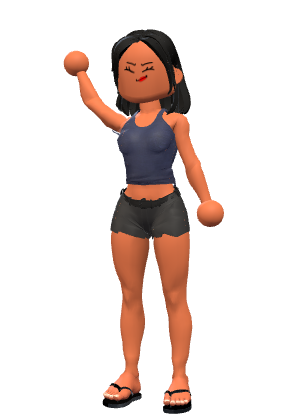
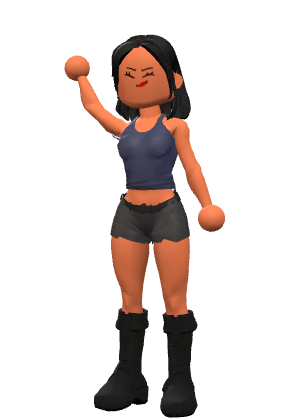
Owners' link (restaurant/) with onboarding tour; scrollbars, card contrast, boots pictures
- restaurant/: one screen for restaurant owners. Name the restaurant and pick what it serves while
  the rewards card and website draw live beside it; one tap makes the card, website and restaurant
  account, then opens the dashboard with example data and a guided tour. ?name=&type=&owner= fill it
  in and build straight away; a returning owner goes straight to the dashboard.
- Dashboard: an 8-stop tour (welcome, what needs you, team, kitchen, paperwork, rewards card,
  website, menu), "Take the tour" in the menu, ?tour=1.
- Custom pill scrollbars site-wide, in games and partner apps, and in the shop website (its colour).
- Rewards page cards use the same card shadow as the dashboard and website sections.
- Avatar pictures re-rendered with the new default boots.

Claude-Session: https://claude.ai/code/session_01QZ64omeFLHpn8ZamwCktyW

diff --git a/restaurant/index.html b/restaurant/index.html
@@ -1,0 +1,167 @@
+<!doctype html>
+<html lang="en" data-theme="light">
+<head>
+<meta charset="utf-8"><script>/* old address → new home */(function(){var p=location.pathname;if(location.hostname==='gabrielman25.github.io'&&p.indexOf('/grugdigital/')===0)location.replace('https://grugdigital.pages.dev/'+p.slice(13)+location.search+location.hash);})();</script>
+<script>/* a returning owner (a restaurant account on this phone, and a plain link) goes straight to the dashboard */
+(function(){try{var q=location.search,b=JSON.parse(localStorage.getItem('grug.business.v1')||'null');
+  if(!/[?&](name|type|c)=/.test(q)&&b&&b.active&&b.shops&&b.shops[b.active]){b.mode='business';localStorage.setItem('grug.business.v1',JSON.stringify(b));location.replace('../business/')}}catch(e){}})();</script>
+<meta name="viewport" content="width=device-width,initial-scale=1,viewport-fit=cover">
+<title>Grug for restaurants</title>
+<meta name="description" content="A rewards card that brings guests back, a website made from it, and a dashboard for your team and kitchen. Free, and ready in one tap.">
+<meta name="theme-color" content="#F3F3F5">
+<link rel="icon" href="../favicon.png">
+<link rel="stylesheet" href="../assets/grug.css">
+<link rel="stylesheet" href="../assets/rewards.css">
+<style>
+/* Grug for restaurants: the link we hand restaurant owners (restaurant/, optionally ?name=…&type=c|t|b|f|k|o&owner=…).
+   One screen: their restaurant's name and what it serves, with their rewards card and website drawing live beside the form.
+   One tap makes all three (card, website, dashboard), then the dashboard opens with example data and a tour. */
+:root{--mode:#FF9F5A;--mode-lo:#E0782F;--page:#F3F3F5}
+html,body{background:var(--page)}
+body{min-height:100vh;min-height:100dvh;display:flex;flex-direction:column}
+.rs{flex:1;display:grid;grid-template-columns:minmax(0,1fr) minmax(0,1fr);grid-template-rows:auto 1fr;column-gap:clamp(24px,5vw,72px);row-gap:clamp(18px,3vw,28px);align-items:center;width:min(1180px,100%);margin:0 auto;padding:clamp(20px,4vw,48px) 20px 40px}
+@media(max-width:900px){.rs{grid-template-columns:1fr;grid-template-rows:none;align-items:start;padding-top:16px;row-gap:14px}}
+.rs-mark{display:inline-flex;align-items:center;gap:10px;font:600 18px/1 var(--font);color:var(--ink);text-decoration:none;grid-column:1/-1;justify-self:start}
+.rs-mark .lg{width:38px;height:38px;border-radius:12px;background:#9BE338;display:grid;place-items:center;box-shadow:0 3px 0 #6FB31C}
+.rs-mark .lg svg{width:26px;height:26px}
+.rs-mark small{font-weight:500;color:var(--ink2)}
+.rs h1{font:600 clamp(32px,4.6vw,54px)/1.04 var(--font);letter-spacing:-.02em;margin:0;max-width:13ch}
+.rs .lede{font-size:clamp(17px,1.6vw,19px);line-height:1.5;color:var(--ink2);margin:14px 0 22px;max-width:34em}
+.rs-form{background:var(--card-solid);border:1px solid var(--line);box-shadow:var(--shadow);border-radius:24px;padding:22px}
+.rs-form label{display:block;font-weight:600;font-size:15px;margin:0 0 8px}
+.rs-name{width:100%;min-height:58px;border-radius:16px;border:2px solid var(--line2);background:#fff;padding:0 16px;font:600 22px/1 var(--font);color:var(--ink)}
+.rs-name:focus{outline:none;border-color:var(--ink)}
+.rs-kinds{display:grid;grid-template-columns:repeat(3,minmax(0,1fr));gap:8px;margin:18px 0 20px}
+.rs-kind{display:flex;align-items:center;gap:10px;min-height:52px;padding:0 12px;border-radius:14px;border:2px solid var(--line);background:#fff;font:600 15px/1.1 var(--font);color:var(--ink);text-align:left}
+.rs-kind .k{width:30px;height:30px;border-radius:9px;display:grid;place-items:center;flex:none;background:var(--k);color:var(--k-ink)}
+.rs-kind .k svg{width:19px;height:19px}
+.rs-kind[aria-checked=true]{border-color:var(--ink);box-shadow:0 3px 0 var(--ink)}
+.rs-kind:focus-visible,.rs-go:focus-visible{outline:3px solid var(--ink);outline-offset:3px}
+@media(max-width:420px){.rs-kinds{grid-template-columns:repeat(2,minmax(0,1fr))}}
+.rs-go{width:100%;min-height:60px;border:0;border-radius:16px;background:var(--mode);color:#1E1B16;font:600 20px/1 var(--font);box-shadow:0 4px 0 var(--mode-lo);display:flex;align-items:center;justify-content:center;gap:10px}
+.rs-go svg{width:24px;height:24px;flex:none}
+.rs-go:active{transform:translateY(3px);box-shadow:0 1px 0 var(--mode-lo)}
+.rs-go[disabled]{opacity:.45;box-shadow:none}
+.rs-fine{font-size:14px;color:var(--ink2);margin:12px 2px 0}
+/* the stage: their card and their website, drawn as they type */
+.rs-stage{position:relative;min-height:560px;grid-column:2;grid-row:2}
+.rs-copy{grid-column:1;grid-row:2}
+@media(max-width:900px){.rs-stage,.rs-copy{grid-column:auto;grid-row:auto}}
+.rs-phone{position:absolute;right:0;top:0;width:300px;height:560px;border-radius:38px;background:#1E1B16;padding:10px;box-shadow:0 30px 60px -30px rgba(20,20,40,.45)}
+.rs-phone .scr{width:100%;height:100%;border-radius:29px;overflow:hidden;background:#fff;position:relative}
+.rs-phone iframe{position:absolute;left:0;top:0;width:400px;height:720px;border:0;transform:scale(.7);transform-origin:0 0;pointer-events:none}
+.rs-card{position:absolute;left:0;bottom:30px;width:min(330px,62%);transform:rotate(-4deg);filter:drop-shadow(0 18px 26px rgba(20,20,40,.22))}
+.rs-card .rw-pass{width:100%}
+.rs-tag{position:absolute;z-index:2;display:inline-flex;align-items:center;gap:7px;font:600 14px/1 var(--font);color:var(--ink);background:#fff;border-radius:99px;padding:8px 12px 8px 9px;box-shadow:var(--shadow)}
+.rs-tag i{width:20px;height:20px;border-radius:7px;display:grid;place-items:center;background:var(--t)}.rs-tag i svg{width:13px;height:13px}
+.rs-tag.c{left:8px;bottom:6px}.rs-tag.w{right:18px;top:-14px}
+@media(max-width:900px){.rs-stage{min-height:0}.rs-phone,.rs-tag.w{display:none}.rs-card{position:relative;left:auto;bottom:auto;width:min(290px,80%);margin:0 auto 6px;transform:rotate(-2deg)}.rs-tag.c{display:none}}
+/* the build: three rows tick over, then the dashboard opens */
+.rs-build{list-style:none;margin:0;padding:0;display:grid;gap:10px}
+.rs-build li{display:flex;align-items:center;gap:14px;padding:14px 16px;border-radius:18px;background:var(--card-solid);border:1px solid var(--line);box-shadow:var(--shadow);opacity:.45;transition:opacity .3s}
+.rs-build li.on,.rs-build li.ok{opacity:1}
+.rs-build .ic{width:46px;height:46px;border-radius:14px;display:grid;place-items:center;background:var(--t);box-shadow:0 3px 0 var(--tl);color:#1E1B16;flex:none}
+.rs-build .ic svg{width:26px;height:26px}
+.rs-build b{display:block;font-size:18px}.rs-build small{display:block;color:var(--ink2);font-size:14.5px;margin-top:2px}
+.rs-build .st{margin-left:auto;width:28px;height:28px;flex:none;display:grid;place-items:center}
+.rs-build li.on .st::before{content:"";width:20px;height:20px;border-radius:50%;border:3px solid var(--line2);border-top-color:var(--ink);animation:rs-spin .7s linear infinite}
+.rs-build li.ok .st{background:#1E1B16;color:#fff;border-radius:50%}.rs-build li.ok .st svg{width:16px;height:16px}
+@keyframes rs-spin{to{transform:rotate(360deg)}}
+.rs-open{margin-top:18px}
+@media(prefers-reduced-motion:reduce){.rs-build li.on .st::before{animation:none}}
+</style>
+</head>
+<body>
+<main class="rs" id="rs">
+  <a class="rs-mark" id="mark" href="../"><span class="lg" id="lg"></span>Grug <small>for restaurants</small></a>
+  <aside class="rs-stage" aria-hidden="true">
+    <span class="rs-tag w"><i style="--t:#5AB0FF" id="tagW"></i>Your website</span>
+    <div class="rs-phone"><div class="scr"><iframe id="pv" title="" tabindex="-1" sandbox="allow-same-origin"></iframe></div></div>
+    <div class="rs-card" id="card"></div>
+    <span class="rs-tag c"><i style="--t:#FF9F5A" id="tagC"></i>Your rewards card</span>
+  </aside>
+  <section class="rs-copy" id="copy" aria-live="polite"></section>
+</main>
+<script src="../assets/catalog.js"></script>
+<script src="../assets/icons.js"></script>
+<script src="../assets/games.js"></script>
+<script src="../assets/grug.js"></script>
+<script src="../assets/rewards.js"></script>
+<script src="../assets/business.js"></script>
+<script>
+(function () {
+  const G = Grug, RW = GrugRewards, B = GrugBusiness, esc = G.esc, $ = s => document.querySelector(s);
+  const q = new URLSearchParams(location.search);
+  const KIND_ORDER = ['f', 'c', 't', 'b', 'k', 'o'];
+  const state = { n: (q.get('name') || '').trim().slice(0, 28), t: RW.KINDS[q.get('type')] ? q.get('type') : '', owner: (q.get('owner') || '').trim().slice(0, 40) };
+  // a full card in the link (?c=…) sets everything, as the card builder made it
+  const fromLink = q.get('c') && RW.decode(q.get('c'));
+  if (fromLink) { state.n = fromLink.n; state.t = fromLink.t; }
+  const cfg = () => fromLink || RW.normalize({ n: state.n || 'Your restaurant', t: state.t || 'f', j: 1 });
+  const svg = (k, d) => '<svg viewBox="0 0 16 16" fill="currentColor" aria-hidden="true">' + (window.GRUG_ICONS_SIMPLE[k] || '') + '</svg>';
+  $('#lg').innerHTML = G.LOGO;
+  $('#tagW').innerHTML = svg('browser'); $('#tagC').innerHTML = svg('gift');
+
+  /* ---------- the live stage ---------- */
+  const abs = p => new URL(G.url(p), location.href).href;
+  let pvT = 0;
+  function stage() {
+    const c = cfg(), code = RW.encode(c);
+    $('#card').innerHTML = RW.passHtml(c, 2);
+    clearTimeout(pvT); pvT = setTimeout(() => { $('#pv').srcdoc = B.siteHtml(code, B.starterSite(c), { fontsHref: abs('assets/shop-fonts.css'), fredokaUrl: abs('assets/fonts/fredoka.woff2') }); }, 220);
+  }
+
+  /* ---------- the form ---------- */
+  function form() {
+    const n = state.n;
+    $('#copy').innerHTML =
+      '<h1>' + (n ? esc(n) + ', ready in one tap.' : 'Your restaurant, ready in one tap.') + '</h1>' +
+      '<p class="lede">A rewards card that brings guests back, a website made from it, and a dashboard for your team and kitchen. Free, with nothing to install.</p>' +
+      '<form class="rs-form" id="f" novalidate>' +
+        '<label for="nm">Your restaurant’s name</label><input class="rs-name" id="nm" maxlength="28" autocomplete="organization" placeholder="Pebble Boba Bar" value="' + esc(n) + '">' +
+        '<div class="rs-kinds" role="radiogroup" aria-label="What do you serve?">' + KIND_ORDER.map(k => { const K = RW.KINDS[k];
+          return '<button type="button" class="rs-kind" role="radio" data-k="' + k + '" aria-checked="' + (state.t === k) + '" style="--k:' + K.color + ';--k-ink:' + RW.inkOn(K.color) + '"><span class="k">' + RW.iconSvg(K.i) + '</span>' + esc(K.label) + '</button>'; }).join('') + '</div>' +
+        '<button class="rs-go" id="go">' + svg('magic-wand') + '<span id="goTx"></span></button>' +
+        '<p class="rs-fine">Saved on this phone. No sign-up, no app to download.</p></form>';
+    const nm = $('#nm'), go = $('#go');
+    const sync = () => { $('#goTx').textContent = state.n ? 'Set up ' + state.n : 'Set up my restaurant'; go.disabled = !state.n.trim() || !state.t; };
+    nm.addEventListener('input', () => { state.n = nm.value.replace(/\s+/g, ' ').slice(0, 28); sync(); stage(); });
+    $('#f').addEventListener('click', e => { const b = e.target.closest('.rs-kind'); if (!b) return; state.t = b.dataset.k; G.ui.buzz && G.ui.buzz();
+      document.querySelectorAll('.rs-kind').forEach(x => x.setAttribute('aria-checked', String(x === b))); sync(); stage(); });
+    $('#f').addEventListener('submit', e => { e.preventDefault(); if (!state.n.trim()) { nm.focus(); return; } if (!state.t) { document.querySelector('.rs-kind').focus(); return; } build(); });
+    sync(); stage();
+    if (!n) nm.focus({ preventScroll: true }); else if (!state.t) document.querySelector('.rs-kind').focus({ preventScroll: true });
+  }
+
+  /* ---------- the build: card → website → dashboard, then the dashboard opens (with example data and the tour) ---------- */
+  const wait = ms => new Promise(ok => setTimeout(ok, matchMedia('(prefers-reduced-motion: reduce)').matches ? 0 : ms));
+  async function build() {
+    const c = cfg(), code = RW.encode(c), name = c.n;
+    const ROWS = [
+      ['gift', '#FF9F5A', '#E0782F', 'Rewards card', 'Making your rewards card', 'Ready to print and put by the register'],
+      ['browser', '#5AB0FF', '#2F86D6', 'Website', 'Building your website from it', 'Live, with a link you can share'],
+      ['dashboard', '#9BE338', '#6FB31C', 'Dashboard', 'Setting up your dashboard', 'Team, kitchen and paperwork in one place']];
+    $('#copy').innerHTML = '<h1>Setting up ' + esc(name) + '</h1><p class="lede">This takes a few seconds.</p><ol class="rs-build">' +
+      ROWS.map(r => '<li style="--t:' + r[1] + ';--tl:' + r[2] + '"><span class="ic">' + svg(r[0]) + '</span><span><b>' + r[3] + '</b><small>' + r[4] + '</small></span><span class="st"></span></li>').join('') + '</ol>';
+    const li = Array.from(document.querySelectorAll('.rs-build li'));
+    const tick = (i, done) => { const r = ROWS[i], el = li[i]; el.classList.toggle('on', !done); el.classList.toggle('ok', !!done); el.querySelector('small').textContent = done ? r[5] : r[4]; if (done) el.querySelector('.st').innerHTML = svg('check'); };
+    // the actual work: who's visiting, the card (in My creations), the restaurant account and its website, then which account is in use
+    try { G.setRole && G.setRole('owner'); } catch (e) {}
+    tick(0); await wait(700); RW.saveMine(code); tick(0, true);
+    tick(1); await wait(700); B.fromCard(code); tick(1, true);
+    tick(2); await wait(700); B.setMode('business');
+    try { sessionStorage.setItem('grug.onboard', JSON.stringify({ owner: state.owner })); } catch (e) {}
+    tick(2, true);
+    $('#copy').insertAdjacentHTML('beforeend', '<button class="rs-go rs-open" id="open">' + svg('dashboard') + 'Open my dashboard</button>');
+    $('#open').addEventListener('click', openDash); $('#open').focus({ preventScroll: true });
+    await wait(900); openDash();
+  }
+  let leaving = false;
+  function openDash() { if (leaving) return; leaving = true; location.href = G.url('business/') + '?start=1'; }
+
+  // a link with the name and what they serve sets up straight away; otherwise the form
+  if (fromLink || (state.n && state.t)) { stage(); build(); } else form();
+})();
+</script>
+</body>
+</html>

diff --git a/business/index.html b/business/index.html
@@ -34,6 +34,17 @@ html.gd-docked .setupwrap .skip{bottom:calc(100px + env(safe-area-inset-bottom,0
   .gdock a{flex:none;width:62px;height:52px}.gdock a span{display:none}.gdock a[aria-current=page]{transform:translateX(3px)}
   html.gd-docked .page{padding-bottom:0;padding-left:calc(90px + env(safe-area-inset-left,0px))}
   html.gd-docked #toast,html.gd-docked .setupwrap .skip{bottom:1.4rem}}
+/* the first-run tour (restaurant/ opens the dashboard with ?start=1; "Take the tour" in the menu replays it): the page dims
+   around one thing at a time, with a card beside it that says what it's for */
+.tour-catch{position:fixed;inset:0;z-index:80}
+.tour-hole{position:fixed;z-index:81;border-radius:.9rem;box-shadow:0 0 0 200vmax rgba(30,27,22,.58);pointer-events:none;transition:left .3s var(--ease),top .3s var(--ease),width .3s var(--ease),height .3s var(--ease)}
+.tour-tip{position:fixed;z-index:82;width:min(23rem,calc(100vw - 1.5rem));background:var(--panel);color:var(--ink);border-radius:.9rem;padding:1.15rem 1.2rem 1rem;box-shadow:var(--sh-pop);
+  transition:left .3s var(--ease),top .3s var(--ease);animation:rise .3s var(--ease) both}
+.tour-tip .n{display:block;font-size:.82rem;font-weight:600;color:var(--muted);margin-bottom:.35rem}
+.tour-tip h2{font-size:1.35rem;line-height:1.15;margin:0 0 .4rem;letter-spacing:0;text-transform:none}
+.tour-tip p{margin:0 0 1rem;font-size:1rem;line-height:1.5;color:var(--text-2)}
+.tour-tip .row{display:flex;align-items:center;gap:.5rem;flex-wrap:wrap}.tour-tip .row .sp{flex:1}
+.tour-tip .dots{display:flex;gap:.3rem;margin-bottom:.9rem}.tour-tip .dots i{width:.45rem;height:.45rem;border-radius:99px;background:var(--line-2)}.tour-tip .dots i.on{width:1.2rem;background:var(--ink)}
 /* a locked time clock is a staff kiosk: no way out to the website or the card */
 html.gd-locked .gdock{display:none}html.gd-locked.gd-docked .page{padding-bottom:0;padding-left:0}
 @media print{.gdock{display:none}}
@@ -1337,6 +1348,7 @@ A.menu=el=>{const pk=el.closest('.me');if(POP&&POP.pk===pk)return closePop();
    <p class="grp">${all.length?all.length===1?'1 thing needs you':all.length+' things need you':'Nothing needs you right now'}</p>
    ${all.map(i=>{const A2=sec(i.page);return`<button type="button" class="opt mi-row" data-act="attn" data-page="${i.page}" data-week="${i.week||''}">${appIcon(A2,'xs')}<span>${esc(i.text)}<small>${lv[i.level][1]?`<span class="tag ${lv[i.level][0]}">${lv[i.level][1]}</span> `:''}${esc(A2.name)}</small></span></button>`}).join('')}
    <div class="mfoot"><button type="button" class="opt" data-act="ext" data-href="site/">${icon('browser')}<span>Your website</span></button><button type="button" class="opt" data-act="ext" data-href="../rewards/">${icon('gift')}<span>Rewards card</span></button>
+   <button type="button" class="opt" data-act="tour">${icon('info')}<span>Take the tour</span></button>
    <button type="button" class="opt" ${goAttr('settings')}>${icon('cog')}<span>Settings</span></button></div>`,'menu')};
 A.ext=el=>{location.href=el.dataset.href};
 A.toPlayer=()=>GRUG.toPlayer();
@@ -1421,6 +1433,54 @@ function gdock(){if(document.querySelector('.gdock')||!GRUG.shop())return;
   document.addEventListener('keydown',e=>{if(POP||e.ctrlKey||e.metaKey||e.altKey||locked()||e.target.closest('input,textarea,select,[contenteditable]'))return;
     const k=e.key.toLowerCase();if(k!=='q'&&k!=='e')return;e.preventDefault();location.href=GDOCK[k==='e'?1:2][2]})}
 A.dockHome=(el,e)=>{e.preventDefault();if(ui.page!=='home'||ui.sub)A.logo()};
+/* ---------- The tour: one stop per part of the restaurant account, in the order an owner meets them ---------- */
+let TOUR_SAMPLE=false,TOUR_OWNER='';
+const tourSteps=()=>{const sh=GRUG.shop(),n=(sh&&sh.n)||D.settings.name||'your restaurant',who=TOUR_OWNER?TOUR_OWNER.split(' ')[0]:'',
+  poss=/s$/i.test(n)?n+'\u2019':n+'\u2019s';return[
+  {t:who?`Welcome, ${who}. This is ${poss} dashboard`:`Welcome to ${poss} dashboard`,b:'Your team, your kitchen, your rewards card and your website, all in one place. Here is a one-minute look around.'},
+  {sel:'.needs,.allgood',t:'What needs you today',b:'Permits about to run out, fridges with no temperature logged, shifts nobody is on. Anything that needs you shows up here first.'},
+  {sel:'details.agrp[data-g=team]',t:'Your team',b:'Plan the week\'s shifts, run a time clock on a tablet by the door, and keep everyone\'s details in one list.'},
+  {sel:'details.agrp[data-g=kitchen]',t:'Kitchen',b:'Opening and closing checklists, fridge and freezer temperatures, and what every dish costs you to make.'},
+  {sel:'details.agrp[data-g=paper]',t:'Paperwork',b:'Health permits and food handler cards, with a reminder before anything runs out. And a backup of everything, in one file.'},
+  {sel:'.gdock a[href="../rewards/"]',t:'Your rewards card',b:'Guests scan it at your counter and collect a stamp every visit, plus Pearls to spend on games. Print its QR code from here.'},
+  {sel:'.gdock a[href="site/"]',t:'Your website',b:'Already made from your rewards card, in its colours and lettering. Add your hours and menu, then share the link.'},
+  {sel:'.top .me',t:'Your menu',b:'Everything that needs you, Settings, and the switch back to your Grug player account.'+(TOUR_SAMPLE?' The apps are filled with example data so you can see how they work. Erase it in Settings when you\'re ready to add your own.':''),last:true}]};
+let TOUR=null;
+function tourEnd(){if(!TOUR)return;TOUR.els.forEach(e=>e.remove());removeEventListener('resize',TOUR.place);removeEventListener('scroll',TOUR.place,true);document.removeEventListener('keydown',TOUR.key,true);TOUR=null;
+  try{localStorage.setItem('grug.biz.tour','done')}catch(e){}}
+function tour(i){
+  if(locked())return;closePop();if(ui.page!=='home'||ui.sub){go('home')}
+  if(!TOUR){const catchEl=document.createElement('div'),hole=document.createElement('div'),tip=document.createElement('div');
+    catchEl.className='tour-catch';hole.className='tour-hole';tip.className='tour-tip';tip.setAttribute('role','dialog');tip.setAttribute('aria-modal','true');tip.setAttribute('aria-labelledby','tourT');
+    document.body.append(catchEl,hole,tip);
+    TOUR={els:[catchEl,hole,tip],hole,tip,i:0,
+      place(){const st=TOUR&&TOUR.steps[TOUR.i];if(!st)return;const el=st.sel&&document.querySelector(st.sel),vw=innerWidth,vh=innerHeight,pad=8;
+        const tw=TOUR.tip.offsetWidth,th=TOUR.tip.offsetHeight;
+        if(!el){Object.assign(TOUR.hole.style,{left:vw/2+'px',top:vh/2+'px',width:'0px',height:'0px'});Object.assign(TOUR.tip.style,{left:(vw-tw)/2+'px',top:Math.max(12,(vh-th)/2)+'px'});return}
+        const r=el.getBoundingClientRect();Object.assign(TOUR.hole.style,{left:r.left-pad+'px',top:r.top-pad+'px',width:r.width+pad*2+'px',height:r.height+pad*2+'px'});
+        const below=r.bottom+pad+14,above=r.top-pad-14-th;let top=below+th<=vh-12?below:above>=12?above:Math.max(12,vh-th-12);
+        const left=Math.max(12,Math.min(vw-tw-12,r.left+r.width/2-tw/2));Object.assign(TOUR.tip.style,{left:left+'px',top:top+'px'})},
+      key(e){if(e.key==='Escape'){e.preventDefault();e.stopPropagation();tourEnd()}else if(e.key==='ArrowRight'){e.preventDefault();tour(TOUR.i+1)}else if(e.key==='ArrowLeft'&&TOUR.i>0){e.preventDefault();tour(TOUR.i-1)}}};
+    TOUR.steps=tourSteps();addEventListener('resize',TOUR.place);addEventListener('scroll',TOUR.place,true);document.addEventListener('keydown',TOUR.key,true);
+    tip.addEventListener('click',e=>{const b=e.target.closest('[data-tour]');if(!b)return;const k=b.dataset.tour;
+      if(k==='next')tour(TOUR.i+1);else if(k==='back')tour(TOUR.i-1);else if(k==='skip'||k==='done')tourEnd();else if(k==='site'){tourEnd();location.href='site/'}})}
+  const steps=TOUR.steps;if(i>=steps.length)return tourEnd();TOUR.i=i=Math.max(0,i);const st=steps[i];
+  TOUR.tip.innerHTML=`<div class="dots" aria-hidden="true">${steps.map((x,k)=>`<i class="${k===i?'on':''}"></i>`).join('')}</div><span class="n">${i+1} of ${steps.length}</span><h2 id="tourT">${esc(st.t)}</h2><p>${esc(st.b)}</p>
+    <div class="row">${st.last?`<button type="button" class="btn pri" data-tour="site">${icon('browser')}Open my website</button><button type="button" class="btn" data-tour="done">Explore the dashboard</button>`
+      :`<button type="button" class="btn pri" data-tour="next">${i?'Next':'Show me around'}</button>${i?'<button type="button" class="btn" data-tour="back">Back</button>':''}<span class="sp"></span><button type="button" class="quiet sm" data-tour="skip">${i?'End tour':'Skip'}</button>`}</div>`;
+  const el=st.sel&&document.querySelector(st.sel);
+  if(el){const r=el.getBoundingClientRect();if(r.top<70||r.bottom>innerHeight-110)el.scrollIntoView({block:'center',behavior:matchMedia('(prefers-reduced-motion: reduce)').matches?'auto':'smooth'})}
+  TOUR.place();setTimeout(()=>TOUR&&TOUR.place(),350);
+  const f=TOUR.tip.querySelector('.btn.pri');if(f)f.focus({preventScroll:true})}
+A.tour=()=>{closePop();tour(0)};
+/* the onboarding link (restaurant/) lands here with ?start=1: a fresh dashboard gets example data in every app (the owner's
+   own name, if the link had one), then the tour starts. ?tour=1 just starts the tour. */
+function onboard(){let q;try{q=new URLSearchParams(location.search)}catch(e){return}if(!q.has('start')&&!q.has('tour'))return;
+  try{history.replaceState(history.state,'',location.pathname)}catch(e){}
+  let o={};try{o=JSON.parse(sessionStorage.getItem('grug.onboard')||'{}')||{};sessionStorage.removeItem('grug.onboard')}catch(e){}
+  if(q.has('start')&&!D.settings.setupDone){loadSample();D.settings.profileName=String(o.owner||'').trim().slice(0,40);TOUR_OWNER=D.settings.profileName;const sh=GRUG.shop();if(sh&&sh.n)D.settings.name=sh.n;
+    D.settings.setupDone=true;touch(D.settings);save();TOUR_SAMPLE=true;ui.anim=true;go('home')}
+  setTimeout(()=>tour(0),450)}
 const attentionAll=()=>C.attention(D,TODAY(),{backupAge:backupAge(),backupDays:meta.backupDays}).concat(bizAttention());
 /* the apps on Home, in groups by what they look after (an app not listed here lands in "More").
    Each group is a drop-down, closed until it's opened; it stays open while the dashboard is open (OPEN_GROUPS). Closed, it
@@ -2099,7 +2159,7 @@ if(window.matchMedia){const mq=matchMedia('(min-width:900px)');const h=()=>{if(D
   ui.week=C.weekStart(TODAY(),D.settings.weekStart);
   GD.init({accent:'#6FB31C',pattern:undefined,cursors:true,tips:true,fx:true,noContextMenu:true,brand:true});GD.setUISize(meta.uiSize||'normal');curBrand='daypart';
   try{history.replaceState({page:'home',sub:null},'')}catch(e){}
-  render();
+  render();onboard();
   if(window.__loadError)toast('Saved data could not be opened: '+window.__loadError);
   if(Store.mode==='memory')toast("This browser isn't letting the app save. Open Fossil to save a backup file.");
   try{if(navigator.storage&&navigator.storage.persist){ui.persisted=await navigator.storage.persisted()||await navigator.storage.persist()}}catch(e){}

diff --git a/assets/cursors.js b/assets/cursors.js
@@ -1,4 +1,4 @@
-/* Grug · the custom cursor, everywhere (cursors.js)
+/* Grug · the custom cursor (and the scrollbar pill), everywhere (cursors.js)
 
    The same outline cursors as the restaurant dashboard (business/, Kenney Cursor Pack, CC0) on every page and game.
    Loaded by theme.js, grug.js and gamekit.js (whichever comes first; it runs once), and by the partner app template.
@@ -63,7 +63,12 @@
     ':where(a[href],area[href],button,summary,select,label,[role=button],[role=link],[role=tab],[role=menuitem],[role=menuitemcheckbox],[role=menuitemradio],[role=option],[role=switch],[role=checkbox],[role=radio],[onclick],' +
       'input:is([type=button],[type=submit],[type=reset],[type=checkbox],[type=radio],[type=color],[type=file],[type=range],[type=image])){cursor:' + VAL.pointer + '}' +
     ':where(input:not([type]),input:is([type=text],[type=email],[type=search],[type=tel],[type=url],[type=password],[type=number],[type=date],[type=time],[type=datetime-local],[type=month],[type=week]),textarea,[contenteditable]:not([contenteditable=false])){cursor:text}' +
-    ':where(:disabled,[aria-disabled=true]){cursor:' + VAL['not-allowed'] + '}';
+    ':where(:disabled,[aria-disabled=true]){cursor:' + VAL['not-allowed'] + '}' +
+    // scrollbars: the site's pill (grug.css has the themed one for site pages; this is for games and partner apps)
+    ':where(*)::-webkit-scrollbar{width:12px;height:12px}:where(*)::-webkit-scrollbar-track,:where(*)::-webkit-scrollbar-corner{background:transparent}' +
+    ':where(*)::-webkit-scrollbar-thumb{background:rgba(128,128,136,.55);border-radius:99px;border:3px solid transparent;background-clip:padding-box;min-height:36px}' +
+    ':where(*)::-webkit-scrollbar-thumb:hover{background-color:rgba(128,128,136,.85);border-width:2px}' +
+    '@supports not selector(::-webkit-scrollbar){:where(*){scrollbar-width:thin;scrollbar-color:rgba(128,128,136,.6) transparent}}';
   function addBase() { const h = doc.head || doc.documentElement; if (!base.isConnected && h) h.insertBefore(base, h.firstChild); }
   addBase(); seen.add(base.sheet);
 

diff --git a/assets/grug.css b/assets/grug.css
@@ -530,12 +530,14 @@ html::-webkit-scrollbar{width:0;height:0;display:none}
 .k-sbar i{position:absolute;right:2px;width:6px;border-radius:99px;background:color-mix(in srgb,var(--ink) 34%,transparent);transition:width .15s ease,background .15s ease,right .15s ease;cursor:grab}
 .k-sbar:hover i,.k-sbar.hold i{width:9px;right:1px;background:linear-gradient(var(--sel-a),var(--sel-b))}
 .k-sbar.hold i{cursor:grabbing}
-/* scrolling boxes inside pages: thin, themed */
-*{scrollbar-width:thin;scrollbar-color:color-mix(in srgb,var(--ink) 30%,transparent) transparent}
-*::-webkit-scrollbar{width:8px;height:8px}
-*::-webkit-scrollbar-track{background:transparent}
-*::-webkit-scrollbar-thumb{background:color-mix(in srgb,var(--ink) 30%,transparent);border-radius:99px;border:2px solid transparent;background-clip:padding-box}
-*::-webkit-scrollbar-thumb:hover{background:linear-gradient(var(--sel-a),var(--sel-b));background-clip:padding-box}
+/* scrolling boxes inside pages: the same pill as the page's own bar (.k-sbar), filling with the section's accent when
+   it's held or hovered. Chrome and Safari draw it from the ::-webkit-scrollbar rules, which they ignore on any element that
+   also has scrollbar-width / scrollbar-color, so those two are only set where the pill can't be drawn (Firefox). */
+*::-webkit-scrollbar{width:12px;height:12px}
+*::-webkit-scrollbar-track,*::-webkit-scrollbar-corner{background:transparent}
+*::-webkit-scrollbar-thumb{background:color-mix(in srgb,var(--ink) 34%,transparent);border-radius:99px;border:3px solid transparent;background-clip:padding-box;min-height:36px}
+*::-webkit-scrollbar-thumb:hover,*::-webkit-scrollbar-thumb:active{background-color:var(--mode);border-width:2px}
+@supports not selector(::-webkit-scrollbar){*{scrollbar-width:thin;scrollbar-color:color-mix(in srgb,var(--ink) 34%,transparent) transparent}}
 
 /* ---------- UI size (Settings): a zoom on the page's UI; the fog and the 3D box stage stay as they are ---------- */
 :root{--g-ui:1}

diff --git a/assets/business.js b/assets/business.js
@@ -213,6 +213,9 @@
       '.where p{display:flex;gap:10px;margin:0 0 14px;align-items:flex-start}.where .ic{margin-top:.25em;color:var(--text)}.where a{color:var(--text);font-weight:600}' +
       'footer{padding-top:56px;padding-bottom:40px;color:var(--mut);font-size:15px}footer p{margin:0}footer a{color:var(--mut)}' +
       '.soc{display:flex;flex-wrap:wrap;gap:18px;margin-bottom:22px}.soc a{display:inline-flex;align-items:center;gap:8px;text-decoration:none;font-weight:600;color:var(--ink)}.soc .ic{width:22px;height:22px}' +
+      '::-webkit-scrollbar{width:12px;height:12px}::-webkit-scrollbar-track{background:var(--paper)}::-webkit-scrollbar-corner{background:transparent}' +
+      '::-webkit-scrollbar-thumb{background:var(--c);border-radius:99px;border:3px solid var(--paper);min-height:40px}::-webkit-scrollbar-thumb:hover{background:var(--lo)}' +
+      '@supports not selector(::-webkit-scrollbar){html{scrollbar-width:thin;scrollbar-color:var(--c) var(--paper)}}' +
       '@media(prefers-reduced-motion:reduce){*{transition:none!important;animation:none!important}}';
     const fontLink = opts.fonts === 'google'
       ? '<link rel="preconnect" href="https://fonts.googleapis.com"><link rel="preconnect" href="https://fonts.gstatic.com" crossorigin><link rel="stylesheet" href="https://fonts.googleapis.com/css2?family=' + GOOGLE.f + (cfg.f !== 'f' && GOOGLE[cfg.f] ? '&family=' + GOOGLE[cfg.f] : '') + '&display=swap">'

diff --git a/assets/fossil32/fossil32.css b/assets/fossil32/fossil32.css
@@ -72,7 +72,7 @@ html.f32-lock #g-fog,html.f32-lock body>main,html.f32-lock .g-top,html.f32-lock 
 
 /* game panel: right side on wide screens, bottom sheet on tall ones */
 .f32-panel{position:absolute;z-index:4;right:max(32px,5vw);top:50%;width:min(470px,40vw);max-height:calc(100% - 120px);overflow:auto;
-  transform:translate(40px,-50%);opacity:0;pointer-events:none;transition:opacity .55s,transform .6s cubic-bezier(.2,.8,.2,1);scrollbar-width:thin;padding:4px 6px 8px 4px}
+  transform:translate(40px,-50%);opacity:0;pointer-events:none;transition:opacity .55s,transform .6s cubic-bezier(.2,.8,.2,1);padding:4px 6px 8px 4px}
 .f32-panel-on .f32-panel{opacity:1;transform:translate(0,-50%);pointer-events:auto}
 .f32-eyebrow{font:700 12px/1.3 "F32 Mono",ui-monospace,monospace;letter-spacing:.18em;color:#8f9bcf}
 /* title + text: the site's own header font, plain white (the retro lettering lives on the box art) */

diff --git a/assets/rewards.css b/assets/rewards.css
@@ -138,3 +138,9 @@ a.rw-tile:hover{transform:translateY(-2px)}
 .rw-toast .i .gi{width:20px;height:20px}
 .rw-ring .c .rw-svg{width:46%;height:46%;color:var(--a,#1E1B16)}
 .rw-toast .i{color:var(--a-ink,#1E1B16)}.rw-toast.err .i{color:#fff}.rw-toast.warn .i{color:#1E1B16}
+/* Cards: the same card and drop shadow as the website editor (.g-card in grug.css) and the dashboard's panels, so the
+   three restaurant pages read as one system and the cards stand off the plain page in light mode. Tiles you can tap
+   lift a little more on hover, like the dashboard's app rows. */
+.rw-hero,.rw-feat,.rw-tile,.rw-pearls,.rw-msg{box-shadow:var(--shadow)}
+.rw-tile{transition:transform .2s var(--spring),box-shadow .2s}
+.rw-tile:hover{box-shadow:var(--shadow),0 .6rem 1.6rem rgba(20,20,40,.10)}

diff --git a/assets/cardchat.css b/assets/cardchat.css
@@ -16,7 +16,7 @@ body.cc-page{min-height:0}
 .cc-top button[hidden]{display:inline-flex;visibility:hidden}
 
 /* the conversation */
-.cc-log{flex:1;min-height:0;overflow-y:auto;overscroll-behavior:contain;display:flex;flex-direction:column;gap:18px;padding:8px 2px 18px;scrollbar-width:thin}
+.cc-log{flex:1;min-height:0;overflow-y:auto;overscroll-behavior:contain;display:flex;flex-direction:column;gap:18px;padding:8px 2px 18px}
 .cc-log>:first-child{margin-top:auto}
 .cc-a{display:grid;grid-template-columns:38px minmax(0,1fr);gap:12px;align-items:start;animation:cc-fade .3s ease both}
 /* the assistant's picture: the Grug stegosaurus (Grug.LOGO), which bobs and nods while it "thinks" */

diff --git a/README.md b/README.md
@@ -16,6 +16,7 @@ Games built with Katy restaurants (each one a standalone game, each venue with i
 - `avatar/` — the 3D avatar editor: no scrolling, swipe between sections (`avatar/nav.js`). `shop/` — every closet item and how to earn it. `profile/` — name, stats, points at each partner, settings, **export / import** of the profile as JSON (moves everything, points included, to another phone).
 - `rewards/` — the **Rewards** tab: the guest's cards from every shop they've tapped in at (stamp cards saved on the phone, plus partner apps they've used), their Pearls, and **My creations** (cards they made). `rewards/create/` is the free do-it-yourself card builder for shop owners, laid out as a conversation with a premium AI assistant (there's no AI: every line is written in the page, `assets/cardchat.css`). The Grug stegosaurus "thinks", then streams each question; answers are picked from a tray of tiles at the bottom (or typed, matched to a tile), and the shop's name goes in a prompt bar. Tapping an earlier answer changes just that one. Questions: name, kind of place, colour, lettering, icon, stamps, a reward from a short list, welcome stamp (anything custom points them to us), ending with a print-ready PDF (drawn in the browser, `GrugRewards.cardPdf`). `rewards/card/` is where that QR or an NFC sticker lands: a stamp once a day and 10 Pearls (at most 30 a day from stamp cards). The shop's whole setup rides in the link; nothing is stored on a server. Shared code: `assets/rewards.js` (link format, storage `grug.rewards.v1`, Pearls) and `assets/rewards.css`; QR drawing: `assets/qrcode.js` (MIT).
 - **Restaurant account:** making a rewards card also makes a restaurant account on the device (`assets/business.js`, `grug.business.v1`). Switch between it and the player account from the menu under the avatar. In it, the site opens on the **Dashboard** (`business/`, the Daypart app: schedule, recipe costs, checklists, temperatures, permits, time clock, staff), and the dock is Dashboard, **Rewards card** and **Website** (`business/site/`, edit the shop's one-page site made from its card). The site's public link is `site/#s=…` (the whole site rides in the link), or download it as one `index.html` for any host.
+- `restaurant/` — the link for restaurant owners: name the restaurant, pick what it serves, and one tap makes the rewards card, website and dashboard, then a short tour of the dashboard (with example data). Add `?name=Rosa%27s%20Tacos&type=f&owner=Rosa` to set it up for a particular owner (types: c café, t boba & tea, b bar, f restaurant, k bakery, o other).
 - `links/` — the **Links** tab, only for online creators: a free link page for their socials (X, Instagram, YouTube, TikTok, Twitch, Discord, a website), either a page of buttons or a small 3D world where each social is a room to walk into (`assets/linkworld.js`). `links/create/` is its one-question-per-slide builder, `links/page/` is what followers open (10 Pearls a day per page, sharing the 30-a-day cap with stamp cards). Only handles ride in the link (`assets/links.js`, saved pages in `grug.links.v1`).
 - The rewards card builder's answers carry a live 3D picture (`assets/wizard3d.js`: the shop's storefront, then a phone with the stamp card and the reward) and ends on a café table with the printed card (`assets/cafe3d.js`). All 3D on these pages uses `assets/three.min.js` (r159, MIT) at half resolution so phones stay smooth.
 - **Who's visiting:** the first visit asks Player / Restaurant owner / Game developer / Online creator (`Grug.ui.askRole`, kept in `profile.prefs.role`, changed in Settings → I'm a…). Each role sees only its dock tabs (`ROLES` in `assets/grug.js`), and pages can show or hide parts with `data-only-for` / `data-hide-for` (the home page does). Pages a guest reaches from a shop's QR pass `noRole` so nobody is quizzed at the counter.

diff --git a/CLAUDE.md b/CLAUDE.md
@@ -24,6 +24,9 @@ in `grug.css` (`--page`, `--card-solid`, `--card`, `--ink`, `--line` …): never
   plain cursors (default, pointer, not-allowed, grab, grabbing, wait) in stylesheets and in code (`el.style.cursor = …`), so
   a page or game that picks its own cursor (an image, `none`, crosshair…) keeps it. Write `cursor:pointer` as usual.
   Left out on purpose: shops' own websites (`site/`, `work/`), which aren't Grug pages.
+- **Scrollbars** are a thin rounded pill everywhere (grug.css; cursors.js for games and partner apps; a shop's website uses its
+  own colour). Don't set `scrollbar-width` / `scrollbar-color` except inside `@supports not selector(::-webkit-scrollbar)`:
+  Chrome drops the custom bar when they're set.
 - **The blue smoky fog (`assets/fogbg.js`) is only for the Games section** (`games/` and `games/<id>/`) **in dark mode**,
   where the FOSSIL32 boxes float in it, with small solid 3D cubes in Grug colours tumbling in the fog (no glowing orbs).
   In light mode (and partner mode) the Games pages are a plain white page with black text and nothing floating: the
@@ -250,6 +253,13 @@ account is in use, the active shop, and each shop's card text and website fields
   empty fields are left off the page. Its public address is `site/#s=<payload>` (the whole site rides in the link,
   deflated), and **Download** gives one self-contained `index.html` (Google Fonts) for any web host.
 - Profile export carries `grug.business.v1` and the dashboard's `daypart:*` keys.
+- **The owners' link** (`restaurant/`, the one to hand restaurant owners): one screen asks the restaurant's name and what it
+  serves while their rewards card and website draw live beside it, and one tap makes the card, the website and the restaurant
+  account, then opens the dashboard with example data in every app and a **tour** (`tourSteps()` in `business/index.html`:
+  one stop per part, ending on the menu; "Take the tour" in the menu replays it, `?tour=1` starts it). Optional
+  `?name=…&type=c|t|b|f|k|o&owner=<first name>` fills it in and builds straight away (`?c=<card code>` uses a whole card).
+  An owner who already has a restaurant account on the device goes straight to the dashboard. When a dashboard part is
+  added or renamed, update the tour.
 
 ## Rewards card builder (`rewards/create/`)
 
